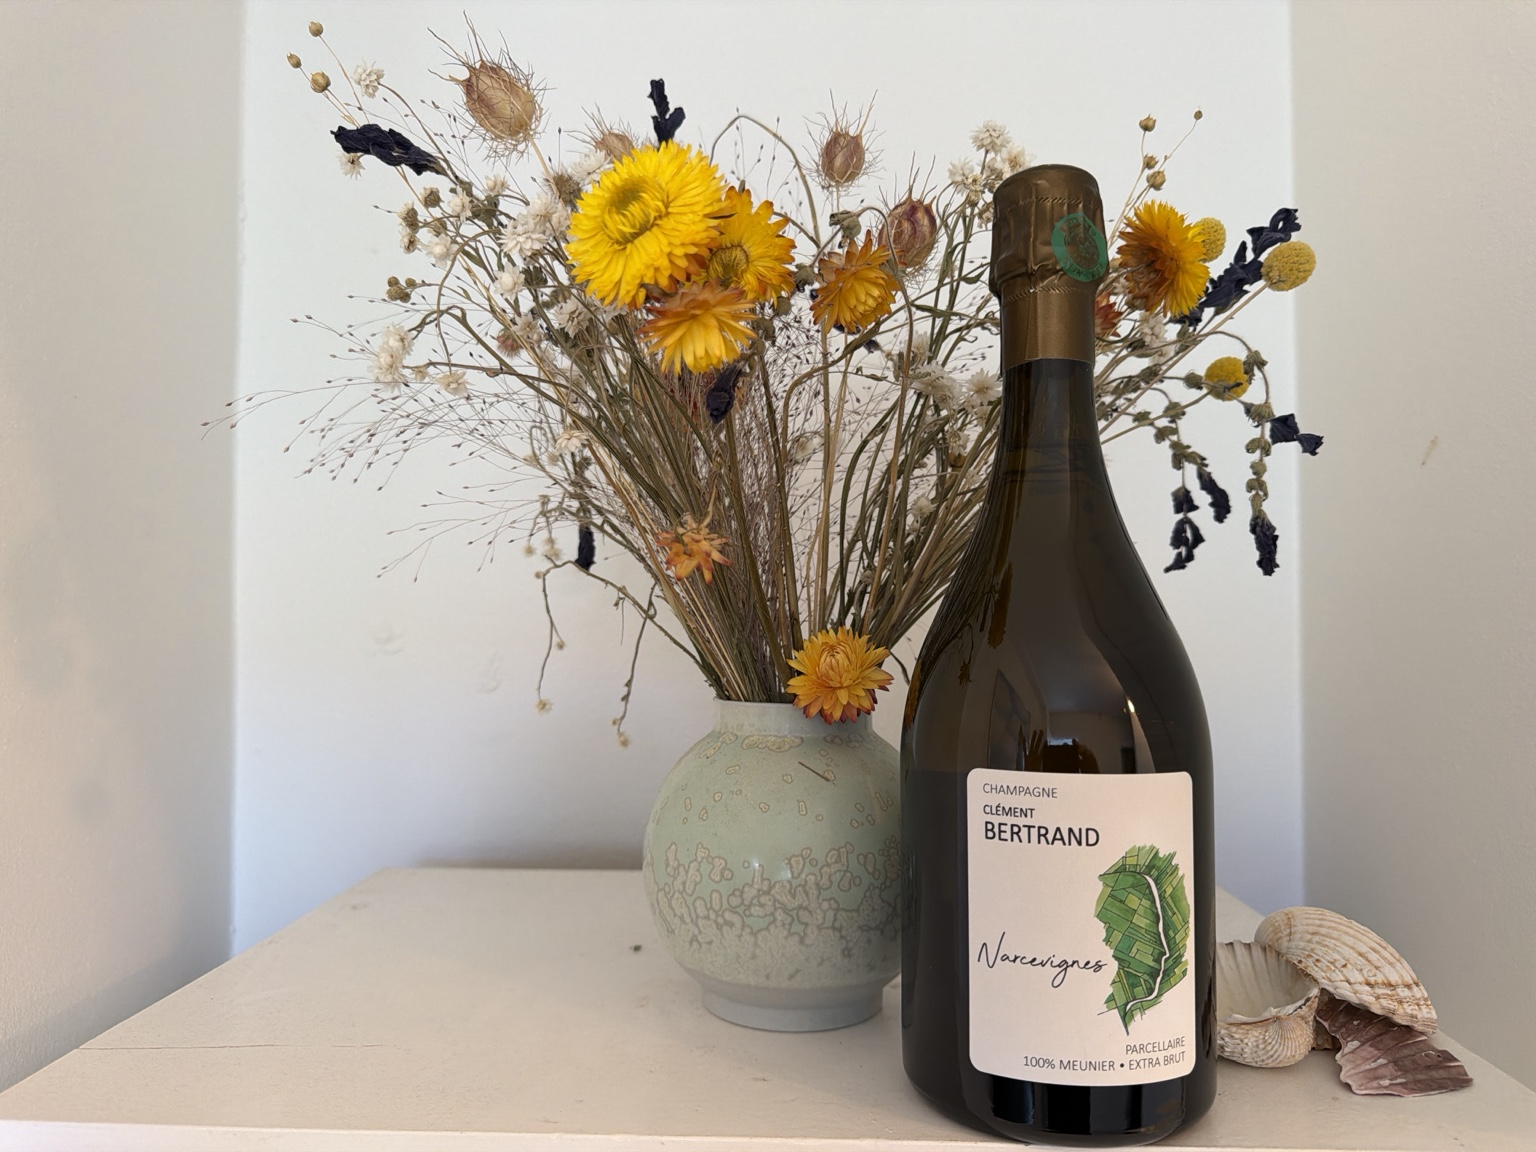
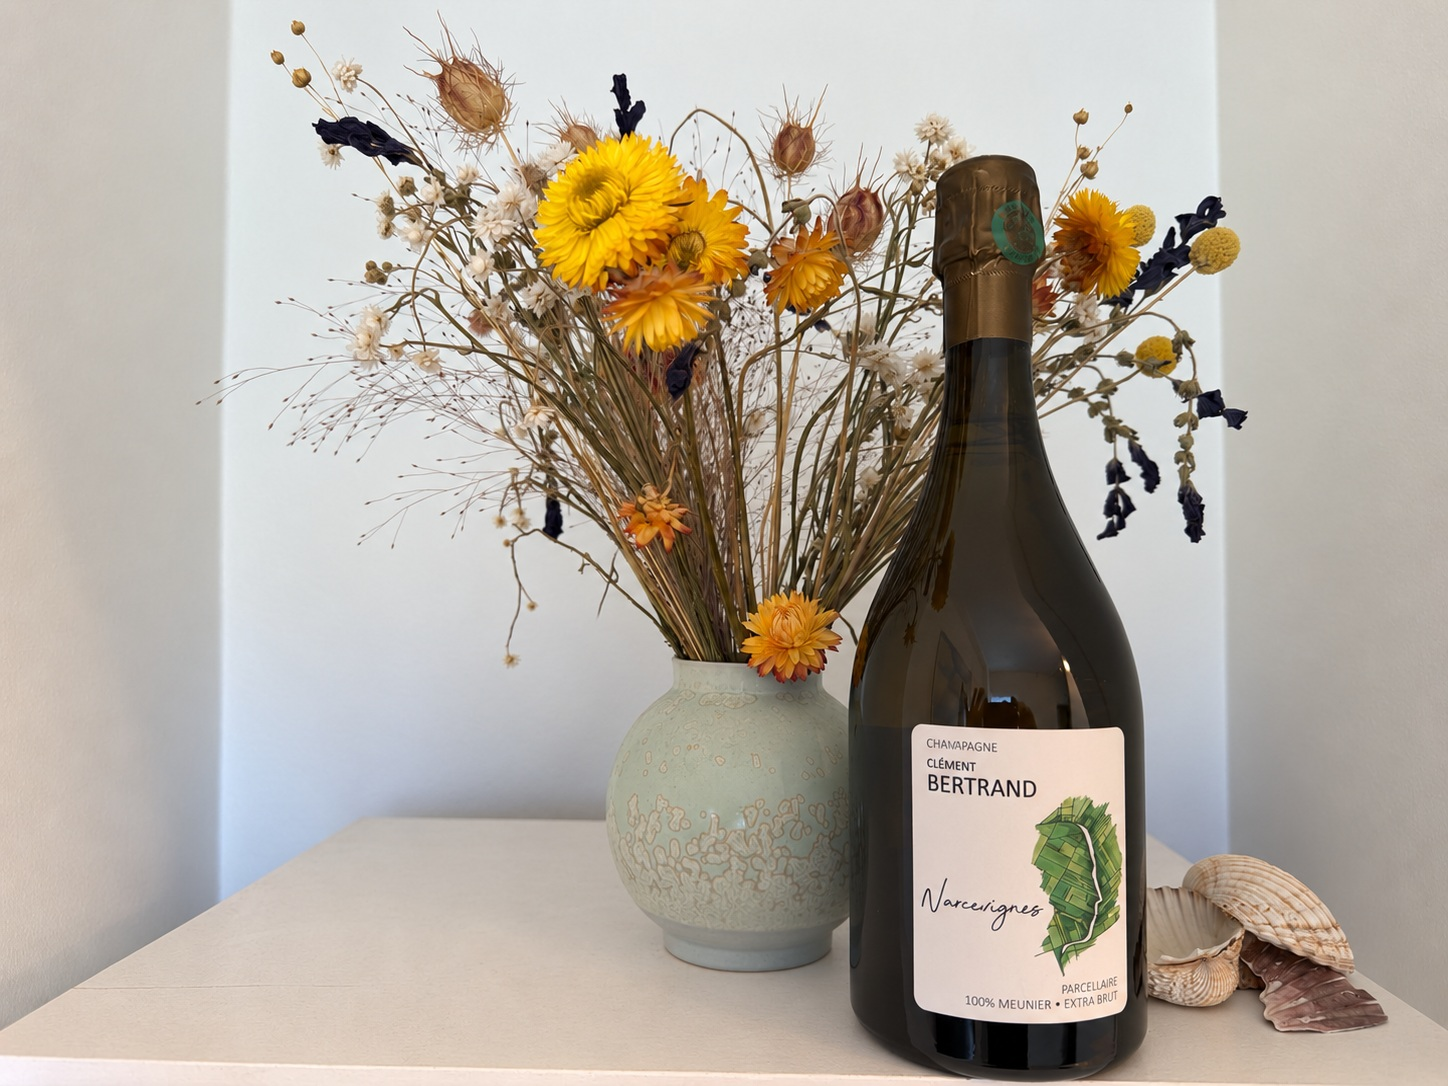
Replace bottle photos with gently cleaned landscape versions

diff --git a/index.html b/index.html
@@ -107,7 +107,7 @@
 
     <section class="bottle-feature" aria-labelledby="bottle-feature-title">
       <figure class="bottle-feature-image">
-        <img src="assets/narcevignes-liggende.jpeg" alt="Narcevignes fra Champagne Clément Bertrand med tørrede blomster og muslingeskaller" loading="lazy">
+        <img src="assets/narcevignes-liggende.jpeg?v=20260928" alt="Narcevignes fra Champagne Clément Bertrand med tørrede blomster og muslingeskaller" loading="lazy">
       </figure>
       <div class="bottle-feature-copy">
         <p class="section-label">En af vores udvalgte</p>
@@ -187,7 +187,7 @@
             <div class="cuvee-grid">
             <section class="cuvee">
               <figure class="cuvee-image">
-                <img src="assets/reflet-liggende.jpeg" alt="Reflet fra Champagne Clément Bertrand med tørrede blomster og muslingeskaller" loading="lazy">
+                <img src="assets/reflet-liggende.jpeg?v=20260928" alt="Reflet fra Champagne Clément Bertrand med tørrede blomster og muslingeskaller" loading="lazy">
               </figure>
               <p class="cuvee-number">01</p>
               <h4>Reflet</h4>
@@ -205,7 +205,7 @@
             </section>
             <section class="cuvee">
               <figure class="cuvee-image">
-                <img src="assets/narcevignes-liggende.jpeg" alt="Narcevignes fra Champagne Clément Bertrand med tørrede blomster og muslingeskaller" loading="lazy">
+                <img src="assets/narcevignes-liggende.jpeg?v=20260928" alt="Narcevignes fra Champagne Clément Bertrand med tørrede blomster og muslingeskaller" loading="lazy">
               </figure>
               <p class="cuvee-number">02</p>
               <h4>Narcevignes</h4>
@@ -261,7 +261,7 @@
             </div>
           </div>
           <figure class="house-bottle-image">
-            <img src="assets/solliphere-liggende.jpeg" alt="Solliphère fra Champagne Tange-Gérard med tørrede blomster og muslingeskaller" loading="lazy">
+            <img src="assets/solliphere-liggende.jpeg?v=20260928" alt="Solliphère fra Champagne Tange-Gérard med tørrede blomster og muslingeskaller" loading="lazy">
             <figcaption>Solliphère fra Champagne Tange-Gérard</figcaption>
           </figure>
           <section class="house-cuvees">
